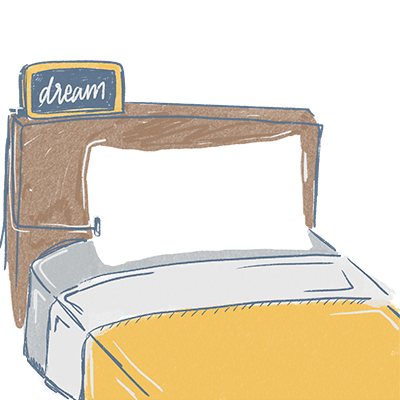
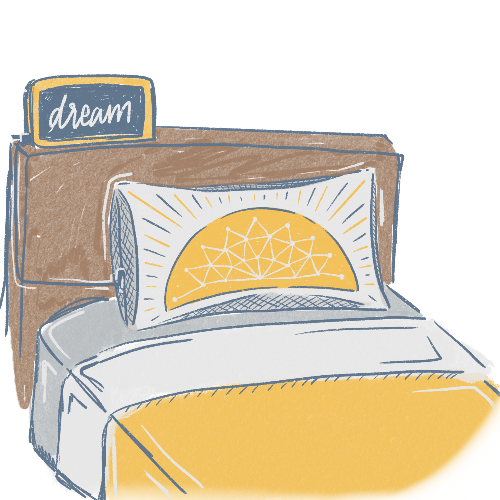
final edits

Changed region(s): [[0.0, 0.15, 1.0, 1.0], [0.0, 0.48, 0.03, 0.51]]

diff --git a/sketch.js b/sketch.js
@@ -28,7 +28,7 @@ const nightIndex = 4;
 const pillowSize = 50;
 
 // locations for pillow + images
-const xPos = 535;
+const xPos = 600;
 const yPos = 70;
 
 // variables for the ballon
@@ -36,11 +36,25 @@ var ellipseDiameter = pillowSize;
 
 // image variables
 var pillowImg;
-var images = [];
+var bedImg;
+var dreamsImg;
+var viewerImg;
+var morningImg;
+var nightImg;
+var gradientImg;
+var borderImg;
+
 var currentImageIndex = 0;
 
-// pop sound
-var popSound;
+// select sound
+var selectSound;
+
+// initialize clickables
+var showBedImg = false;
+var showDreamsImg = false;
+var showViewerImg = false;
+var showMorningImg = false;
+var showNightImg = false;
 
 // ALWAYS allocate the ClickableManager in the preload() function
 // if you get an error here, it is likely the .csv file that is not the
@@ -53,19 +67,23 @@ function preload(){
   bedImg = loadImage('assets/bed.png');
   dreamsImg = loadImage('assets/dreams.png');
   viewerImg = loadImage('assets/viewer.png');
+  morningImg = loadImage('assets/morning.png');
+  nightImg = loadImage('assets/night.png');
+  gradientImg = loadImage('assets/gradientCircle.png');
+  borderImg = loadImage('assets/border.png');
 }
 
 // ALWAYS call the setup() funciton for ClickableManager in the setup(), after
 // the class has been allocated in the preload() function.
 function setup() {
-  createCanvas(1200,800);  
+  createCanvas(1200,700);  
 
   imageMode(CORNER);
   rectMode(CORNER);
 
   // load the pop sound
-  // soundFormats('mp3');
-  // popSound = loadSound('assets/pop.mp3');
+  soundFormats('mp3');
+  selectSound = loadSound('assets/select.mp3');
 
   // setup the clickables = this will allocate the array
   clickables = clickablesManager.setup();
@@ -79,15 +97,16 @@ function setup() {
 
   // output to the message window
   console.log(clickables);
-
-  // center images
-  // imageMode(CENTER);
 }
 
 // Just draw the button
 function draw() {
   background("#516984");
 
+  // draw background circle
+  drawBackgrounds();
+
+  // draw text
   drawText();
 
   // draw the p5.clickables
@@ -95,23 +114,68 @@ function draw() {
 
   // draw pillow
   drawPillow();
+
+  // boolean images
+  if(showBedImg){
+    bedImg.resize(400, 400);
+    image(bedImg, xPos, yPos);
+  }
+  if(showDreamsImg){
+    dreamsImg.resize(400, 400);
+    image(dreamsImg, xPos, yPos);
+  }
+  if(showViewerImg){
+    viewerImg.resize(400, 400); 
+    image(viewerImg, xPos, yPos);
+  }
+  if(showMorningImg){
+    morningImg.resize(400,400);
+    image(morningImg, xPos, yPos);
+  }
+  if(showNightImg){
+    nightImg.resize(400, 400);
+    image(nightImg, xPos, yPos);
+  }
 }
 
 function drawText() {
-  fill('#e8e8e8');
-  textSize(30);
+  textAlign(LEFT);
   textFont('Forma DJR Deck');
-  text('The Dream-Recording Pillow', 80, 200);
+
+  //title
+  textSize(33);
+  fill('#F1C15D');
+  text('The Dream-Recording Pillow', 80, 130);
   
   //description
-  textSize(15);
-  text('The dream-recording pillow will allow everyone to better understand themselves and make the most of the time they spend while asleep.', 80, 250, 400);
-  // text('The average person spends almost one third of their lifetime asleep, yet less sleep leads to a shorter lifespan. In order to find balance between taking care of the body and maximizing time to be productive, the dream-recording pillow will encourage sleep while saving time spent awake on uncovering emotions and desires. Sleeping allows for humans to process the events of the previous day while also creating very vivid imagery. The dream-recording pillow creates opportunities to better understand anxieties and fears, identify subconscious desires, and to dream bigger and better.', 80, 325, 400);
+  fill('#e8e8e8');
+  textSize(17);
+  text('The dream-recording pillow will allow everyone to better understand themselves and make the most of the time they spend while asleep.', 80, 180, 400);
+  text('The average person spends almost one third of their lifetime asleep, yet less sleep leads to a shorter lifespan. In order to find balance between taking care of the body and maximizing time to be productive, the dream recording pillow will encourage sleep while saving time spent awake on uncovering emotions and desires. Sleeping allows for humans to process the events of the previous day while also creating very vivid imagery. The dream-recording pillow creates opportunities to better understand anxieties and fears, identify subconscious desires, and to dream bigger and better.', 80, 255, 400);
+
+  //instructions
+  textAlign(RIGHT);
+  textSize(13);
+  text('Toggle different scenarios ⭢', 550, 560, 100);
+}
+
+function drawBackgrounds(){
+  imageMode(CORNER);
+  // circle behind drawings
+  image(gradientImg, xPos - 50, yPos - 50);
+
+  //rectangle behind buttons
+  fill('#465A72');
+  noStroke();
+  rect(540, 540, 500, 70, 20);
+
+  // star border
+  image(borderImg, 0, 0);
 }
 
 function drawPillow() {
   push();
-  imageMode(CORNER);
+  pillowImg.resize(400, 400);
   image(pillowImg, xPos, yPos);
   pop();
 }
@@ -124,7 +188,7 @@ function setupClickables() {
     clickables[i].onHover = clickableButtonHover;
     clickables[i].onOutside = clickableButtonOnOutside;
 
-    clickables[i].drawImageOnly = false;
+    clickables[i].drawImageOnly = true; // no border, no background
 
   }
 }
@@ -135,6 +199,8 @@ clickableButtonPressed = function () {
 // NEW PILLOW
   if( this.id === bedIndex || this.id === dreamsIndex || this.id === viewerIndex || this.id === morningIndex || this.id === nightIndex) {
     newPillow(this.id);
+    // play sound effect when clicked
+    selectSound.play();
   }
 }
 
@@ -151,36 +217,36 @@ clickableButtonOnOutside = function () {
     this.color = "#F1C15D"; // yellow
   }
   else {
-    this.color = "#00000000"; // blue
+    this.color = "#aabac5"; // blue
   }
 
   this.noTint = true;
 }
 
-//--- BALLOON FUNCTIONS --
+//--- FUNCTIONS --
 
 function newPillow(idNum) {
 
   if( idNum === bedIndex) {
-    image(bedImg, xPos, yPos)
+    showBedImg = !showBedImg;
   }
   else if( idNum === dreamsIndex) {
-    image(dreamsImg, xPos, yPos);
+    showDreamsImg = !showDreamsImg;
   }
   else if( idNum === viewerIndex) {
-    image(viewerImg, xPos, yPos);
+    showViewerImg = !showViewerImg;
   }
   else if( idNum === morningIndex) {
-    image(morningImg, xPos, yPos);
+    showMorningImg = !showMorningImg;
   }
   else if( idNum === nightIndex){
-    image(nightImg, xPos, yPos)
+    showNightImg = !showNightImg;
   }
 }
 
 // if we pop the balloon, then you can't re-pop or inflate or deflate
-function popBalloon() {
-  popSound.play();
-}
+// function select () {
+//   popSound.play();
+// }
 
 

diff --git a/README.md b/README.md
@@ -1,6 +1,8 @@
 # Clickables for Speculative Technology
 #### by Morgan Lee
 
+##### Description
+Dream recording pillow, a speculative technology, explored through using p5 library's clickables.
 
 
 
